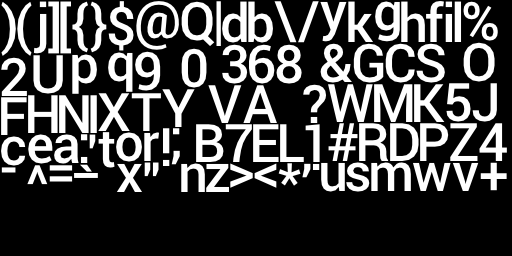
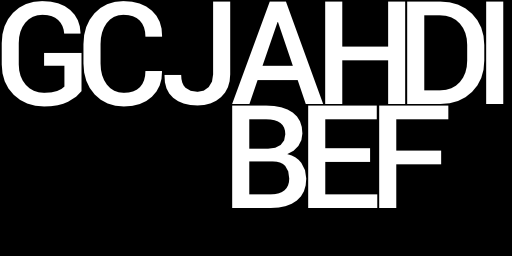
write font bitmap to file, changes to shader layout

diff --git a/main.cpp b/main.cpp
@@ -51,6 +51,41 @@ void print_fun(const char* f) {
     printf("%s\n", f);
 }
 
+void print_gl_string(const char *name, GLenum s) {
+    const char *v = (const char *) glGetString(s);
+    printf("GL %s = %s\n", name, v);
+}
+
+void gl_error(const char *file, int line) {
+    bool has_errors = false;
+    for (GLint error = glGetError(); error; error = glGetError()) {
+        printf("\tGL_ERROR: file:%s:%d -- Hex: 0x%x Dec: %d)\n", file, line, error, error);
+        switch (error) {
+            case GL_INVALID_ENUM:
+                printf("\tINVALID_ENUM\n");
+                break;
+            case GL_INVALID_VALUE:
+                printf("\tINVALID_VALUE\n");
+                break;
+            case GL_INVALID_OPERATION:
+                printf("\tINVALID_OPERATION\n");
+                break;
+            case GL_OUT_OF_MEMORY:
+                printf("\tOUT_OF_MEMORY\n");
+                break;
+            case GL_INVALID_FRAMEBUFFER_OPERATION:
+                printf("\tINVALID_FRAMEBUFFER_OPERATION\n");
+                break;
+            default:
+                printf("\t__UNEXPECTED_VALUE__)\n");
+        }
+        has_errors = true;
+    }
+    assert(!has_errors);
+}
+
+#define GL_ERR gl_error(__FILE__, __LINE__)
+
 GLuint compile_shader(GLenum type, const char *src) {
     GLuint shader;
     GLint compiled;
@@ -77,8 +112,18 @@ inline float *push_v4_arr(float *v, float x, float y, float z, float a) {
     v[1] = y;
     v[2] = z;
     v[3] = a;
-    //log_fmt("push_v4_arr: %f, %f, %f, %f",  x, y, z, a);
+    printf("push_v4_arr: %f, %f, %f, %f\n",  x, y, z, a);
     return v + 4;
+}
+
+inline float *push_v5_arr(float *v, float x, float y, float z, float s, float t) {
+    v[0] = x;
+    v[1] = y;
+    v[2] = z;
+    v[3] = s;
+    v[4] = t;
+    printf("push_v5_arr: %f, %f, %f, %f, %f\n",  x, y, z, s, t);
+    return v + 5;
 }
 
 void set_float3(float3 *v, float x, float y, float z) {
@@ -183,21 +228,21 @@ int main(int argc, char const *argv[]) {
 
 	char vs_source[] =
         "attribute vec4 position;"
+        "attribute vec2 uvs;"
         "uniform mat4 view_matrix;"
         "uniform mat4 projection_matrix;"
-        "varying vec2 uvs;"
+        "varying vec2 vuvs;"
         "void main(){"
-        "uvs = vec2(position.xy);"
-        "vec4 p= vec4(position.zw, 0, 1.0);"
-        "gl_Position =  projection_matrix * view_matrix * p;"
+        "vuvs = uvs;"
+        "gl_Position =  projection_matrix * view_matrix * position;"
         "}";
 
     char fs_source[] =
-        "varying vec2 uvs;"
+        "varying vec2 vuvs;"
 		"uniform sampler2D texture;"
         "void main() {"
-        //"gl_FragColor = vec4(1.0,0.0,0.0, 1.0) + texture2D(texture, uvs);"
-        "gl_FragColor = texture2D(texture, uvs);"
+        "gl_FragColor = texture2D(texture, vuvs);"
+        //"gl_FragColor = vec4(0.1,0.1,0.1, 0.1) + texture2D(texture, vuvs);"
         "}";
 	printf("Compiling shader\n");
     GLuint main_shader = compile_shader_program(vs_source,
@@ -217,25 +262,25 @@ int main(int argc, char const *argv[]) {
     float aspect = WINDOW_W / (float)WINDOW_H;
     m_mat4_perspective(projection_matrix, 10.0, aspect, 0.1, 100.0);
 
-	set_float3(&camera_position, 10 ,10, 10);
+	set_float3(&camera_position, 0, 1, 5);
 	set_float3(&camera_direction, 0 - camera_position.x ,0 - camera_position.y , 0 - camera_position.z);
 	set_float3(&camera_up, 0,1,0);
 	
 	m_mat4_lookat(view_matrix, &camera_position, &camera_direction, &camera_up);
 
 	printf("Creating mesh\n");
-	int vertex_data_size = sizeof(float) * 6 * 4;
+	int vertex_data_size = sizeof(float) * 6 * 5;
 	float* vertex_data = (float *) malloc(vertex_data_size);
 
 	float* buf = vertex_data;
     {
-		float scale = 3.0;
-		buf = push_v4_arr(buf, 0.0, 1.0, -scale, scale);
-		buf = push_v4_arr(buf, 1.0, 0.0, scale, -scale);
-		buf = push_v4_arr(buf, 1.0, 1.0, scale, scale);
-		buf = push_v4_arr(buf, 0.0, 1.0, -scale, scale);
-		buf = push_v4_arr(buf, 0.0, 0.0, -scale, -scale);
-		buf = push_v4_arr(buf, 1.0, 0.0, scale, -scale);
+		float scale = 1.0;
+		buf = push_v5_arr(buf, -scale, scale, 0.0, 0.0, 1.0);
+		buf = push_v5_arr(buf, scale, -scale, 0.0, 1.0, 0.0);
+		buf = push_v5_arr(buf, scale, scale, 0.0, 1.0, 1.0);
+		buf = push_v5_arr(buf, -scale, scale, 0.0, 0.0, 1.0);
+		buf = push_v5_arr(buf, -scale, -scale, 0.0, 0.0, 0.0);
+		buf = push_v5_arr(buf, scale, -scale, 0.0, 1.0, 0.0);
     }
 
     printf("Loading font !!\n");
@@ -249,10 +294,13 @@ int main(int argc, char const *argv[]) {
         printf("font loaded\n");
     }
 
-    int font_size = 70;
+    int font_size = 190;
 
-    const char font_first_char = ' ';
-    const int font_char_count = '~' - ' ';
+    //const char font_first_char = 'A';
+    //const int font_char_count = 6;
+    const char font_first_char = 'A';
+    const int font_char_count = 10;
+    
     const int bitmap_width = 512;
     const int bitmap_height = 256;
     const int oversample_x = 1;
@@ -293,7 +341,8 @@ int main(int argc, char const *argv[]) {
 
     glGenTextures(1, &font_texture);
     glBindTexture(GL_TEXTURE_2D, font_texture);
-    glTexImage2D(GL_TEXTURE_2D, 0, GL_ALPHA, bitmap_width, bitmap_height, 0, GL_ALPHA, GL_UNSIGNED_BYTE, bitmap);
+    glTexImage2D(GL_TEXTURE_2D, 0, GL_RGBA, bitmap_width, bitmap_height, 0, GL_RGBA, GL_UNSIGNED_BYTE,
+	                     bitmap);
     glTexParameteri(GL_TEXTURE_2D, GL_TEXTURE_MIN_FILTER, GL_LINEAR);
     glTexParameteri(GL_TEXTURE_2D, GL_TEXTURE_MAG_FILTER, GL_LINEAR);
     
@@ -301,7 +350,6 @@ int main(int argc, char const *argv[]) {
     delete font_file;
 
     bool render_a_character = false;
-
     if (render_a_character) {
     	float x = 0;
     	float y = 0;
@@ -321,14 +369,16 @@ int main(int argc, char const *argv[]) {
 
 		float* buf = vertex_data;
 	    {
-	    	
+	    	float xf = 0.01;
+	    	float yf = 0.01;
+	    	printf("rendering character to position\n");
 			float scale = 1.0;
-			buf = push_v4_arr(buf, q.s0, q.t0, -scale, scale);
-			buf = push_v4_arr(buf, q.s1, q.t0, scale, -scale);
-			buf = push_v4_arr(buf, q.s1, q.t1, scale, scale);
-			buf = push_v4_arr(buf, q.s0, q.t0, -scale, scale);
-			buf = push_v4_arr(buf, q.s1, q.t1, -scale, -scale);
-			buf = push_v4_arr(buf, q.s0, q.t1, scale, -scale);
+			buf = push_v5_arr(buf, xf * q.x0, yf * q.y0, 0.0, q.s0, q.t0);
+			buf = push_v5_arr(buf, xf * q.x1, yf * q.y0, 0.0, q.s1, q.t0);
+			buf = push_v5_arr(buf, xf * q.x1, yf * q.y1, 0.0, q.s1, q.t1);
+			buf = push_v5_arr(buf, xf * q.x0, yf * q.y0, 0.0, q.s0, q.t0);
+			buf = push_v5_arr(buf, xf * q.x1, yf * q.y1, 0.0, q.s1, q.t1);
+			buf = push_v5_arr(buf, xf * q.x0, yf * q.y1, 0.0, q.s0, q.t1);
 	    }
     }
 
@@ -344,6 +394,7 @@ int main(int argc, char const *argv[]) {
 	    glBindTexture(GL_TEXTURE_2D, test_texture);
 	    glTexParameteri(GL_TEXTURE_2D, GL_TEXTURE_MIN_FILTER, GL_LINEAR);
 	    glTexParameteri(GL_TEXTURE_2D, GL_TEXTURE_MAG_FILTER, GL_NEAREST);
+
 	    if (channels == 3) {
 	        glTexImage2D(GL_TEXTURE_2D, 0, GL_RGB, width, height, 0, GL_RGB, GL_UNSIGNED_BYTE, pixels);
 	    } else {
@@ -353,10 +404,40 @@ int main(int argc, char const *argv[]) {
 
 	    glBindTexture(GL_TEXTURE_2D, 0);
 	    stbi_image_free(pixels);
-	}
-    
-    printf("Entering Render Loop\n");
 
+	    printf("Loaded test texture: %d %d %d\n", width, height, channels);
+	}
+
+	printf("Loading font texture from file\n");
+	GLuint font_texture_from_file = 0;
+	{
+		int width, height, channels;
+	    stbi_set_flip_vertically_on_load(true);
+	    unsigned char *pixels = stbi_load("font.png", &width, &height, &channels, 0);
+	    assert(pixels != NULL);
+
+	    glGenTextures(1, &font_texture_from_file);
+	    glBindTexture(GL_TEXTURE_2D, font_texture_from_file);
+	    glTexParameteri(GL_TEXTURE_2D, GL_TEXTURE_MIN_FILTER, GL_LINEAR);
+	    glTexParameteri(GL_TEXTURE_2D, GL_TEXTURE_MAG_FILTER, GL_NEAREST);
+	    if (channels == 3) {
+	        glTexImage2D(GL_TEXTURE_2D, 0, GL_RGB, width, height, 0, GL_RGB, GL_UNSIGNED_BYTE, pixels);
+	    } else if(channels == 4) {
+	        glTexImage2D(GL_TEXTURE_2D, 0, GL_RGBA, width, height, 0, GL_RGBA, GL_UNSIGNED_BYTE,
+	                     pixels);
+	    } else {
+	    	glTexImage2D(GL_TEXTURE_2D, 0, GL_RED, width, height, 0, GL_RED, GL_UNSIGNED_BYTE,
+	                     pixels);
+	    }
+
+	    glBindTexture(GL_TEXTURE_2D, 0);
+	    stbi_image_free(pixels);
+
+	    printf("Loaded font texture from file: %d %d %d\n", width, height, channels);
+	}
+
+    printf("Entering Render Loop\n");
+    GL_ERR;
 	glEnable(GL_DEPTH_TEST);
     glClearColor(0.2f, 0.2f, 0.2f, 1.0f);
     while(!glfwWindowShouldClose(window)) {
@@ -367,27 +448,31 @@ int main(int argc, char const *argv[]) {
         {
 			
 			GLint position = glGetAttribLocation(main_shader, "position");
+			GLint uvs = glGetAttribLocation(main_shader, "uvs");
 			GLint texture = glGetAttribLocation(main_shader, "texture_unit");
 
 			glUniformMatrix4fv(glGetUniformLocation(main_shader, "view_matrix"),1,GL_FALSE,view_matrix);
 			glUniformMatrix4fv(glGetUniformLocation(main_shader, "projection_matrix"), 1, GL_FALSE, projection_matrix);
 			glUniform1f(texture, 0.0);
 
-			//glBindTexture(GL_TEXTURE_2D, font_texture);
-			glBindTexture(GL_TEXTURE_2D, test_texture);
+			// @NOTE Texture loading from the ttf file gives a flipped texture which will certainly lead to incorrect results. Let's debug from a file written to disk for now.
 
-			int bytes_per_float = 4;
-			int stride = bytes_per_float * (4);
+			//glBindTexture(GL_TEXTURE_2D, font_texture);
+			glBindTexture(GL_TEXTURE_2D, font_texture_from_file);
+			//glBindTexture(GL_TEXTURE_2D, test_texture);
+
+			int bytes_per_float = sizeof(float);
+			int stride = bytes_per_float * (5);
 
 			glEnableVertexAttribArray(position);
-			glVertexAttribPointer(position, 4, GL_FLOAT, GL_FALSE, stride, vertex_data);
+			glVertexAttribPointer(position, 3, GL_FLOAT, GL_FALSE, stride, vertex_data);
+			glEnableVertexAttribArray(uvs);
+			glVertexAttribPointer(uvs, 2, GL_FLOAT, GL_FALSE, stride, vertex_data + 3);
 
 			glDrawArrays(GL_TRIANGLES, 0, 6);
         }
         glUseProgram(0);
-
-    	
-
+		GL_ERR;
 		glfwSwapBuffers(window);
         glfwPollEvents();
     }
